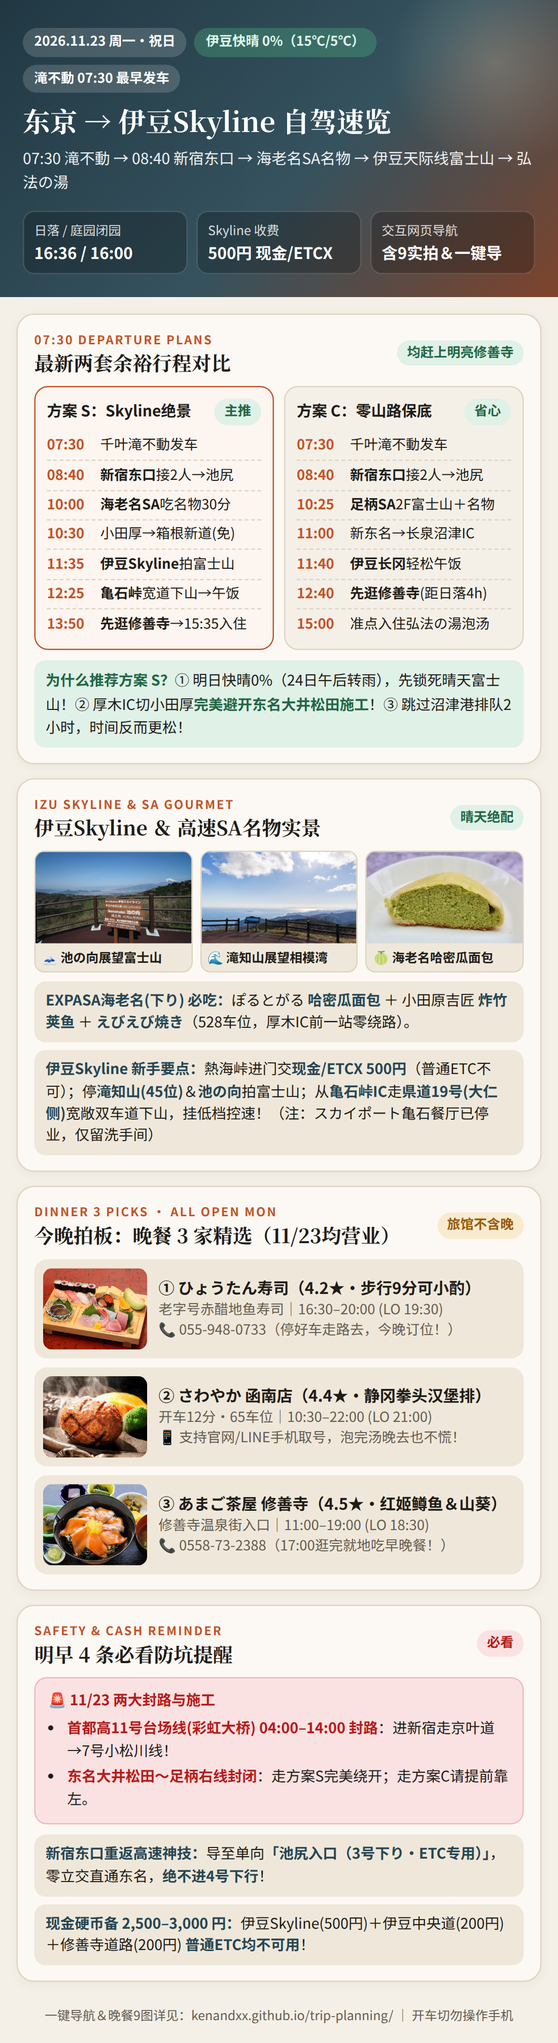
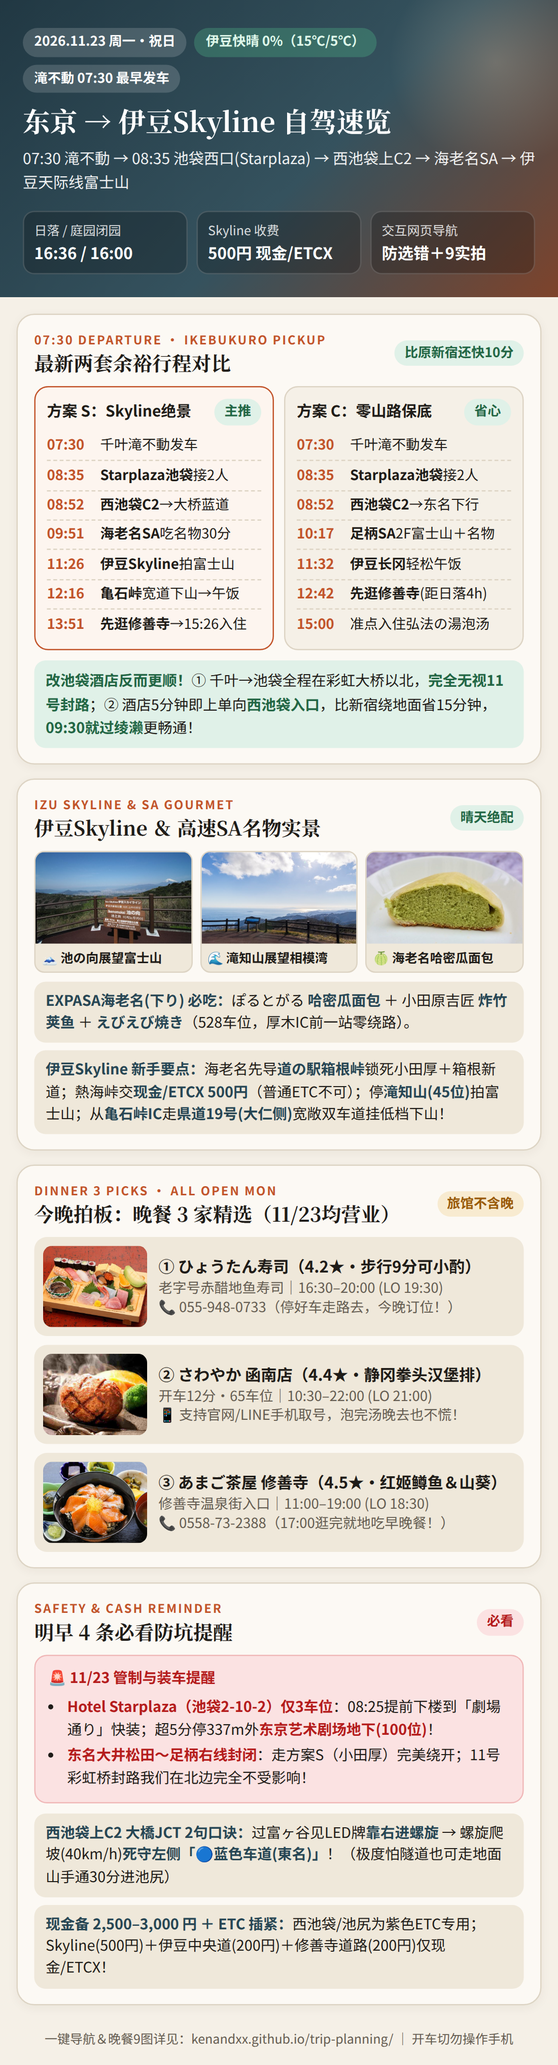
Replan Tokyo pickup for Hotel Starplaza Ikebukuro (08:35) and Nishi-Ikebukuro C2 entry

Changed region(s): [[0.0309, 0.0311, 0.9582, 0.9943], [0.9273, 0.0621, 0.9582, 0.0932]]

diff --git a/index.html b/index.html
@@ -6,12 +6,12 @@
 <meta name="robots" content="noindex, nofollow">
 <meta name="theme-color" content="#f5f0e7" media="(prefers-color-scheme: light)">
 <meta name="theme-color" content="#161513" media="(prefers-color-scheme: dark)">
-<title>11/23 伊豆自驾一键导航＆绝景攻略｜07:30出发・伊豆Skyline・晚餐3选1</title>
-<meta name="description" content="2026年11月23日千叶滝不動07:30出发→新宿东口接人→海老名SA名物→伊豆Skyline看富士山→修善寺＆弘法の湯。含新手一键Google Maps导航、3家晚餐实拍＆真实口碑。">
+<title>11/23 伊豆自驾一键导航＆绝景攻略｜07:30出发・池袋接人・伊豆Skyline</title>
+<meta name="description" content="2026年11月23日千叶滝不動07:30出发→Hotel Starplaza Ikebukuro(池袋西口)接人→西池袋上C2→海老名SA名物→伊豆Skyline看富士山→修善寺＆弘法の湯。含新手防选错一键Google Maps导航、3家晚餐9实拍＆真实口碑。">
 <meta property="og:type" content="website">
 <meta property="og:url" content="https://kenandxx.github.io/trip-planning/">
-<meta property="og:title" content="11/23 伊豆自驾一键导航｜伊豆Skyline富士山＆晚餐3选1">
-<meta property="og:description" content="07:30出发最新方案！含新手一键Google Maps语音导航、海老名/足柄SA名物、伊豆Skyline富士山攻略与3家高分晚餐实拍图＆口碑。">
+<meta property="og:title" content="11/23 伊豆自驾一键导航｜池袋西口接人・伊豆Skyline富士山＆晚餐3选1">
+<meta property="og:description" content="已锁定 Hotel Starplaza Ikebukuro（池袋西口）08:35 接人！含新手防选错一键导航、西池袋/零隧道双入口、海老名SA名物、伊豆Skyline富士山＆3家晚餐9实拍。">
 <meta property="og:image" content="https://kenandxx.github.io/trip-planning/og-cover.png">
 <style>
 :root{
@@ -253,7 +253,7 @@ footer{text-align:center;font-size:12px;color:var(--soft);padding:16px 0 36px;bo
       <span>滝不動 07:30 最早发车</span>
     </div>
     <h1>东京 → 伊豆Skyline → 伊豆长冈 自驾总览</h1>
-    <p class="sub">千叶滝不動 07:30 发车 → 新宿东口 08:40 接2位朋友 → 海老名SA名物 → 伊豆スカイライン富士山绝景 → 修善寺＆弘法の湯</p>
+    <p class="sub">千叶滝不動 07:30 发车 → 08:35 池袋西口（Hotel Starplaza）接2位朋友 → 西池袋上C2 → 海老名SA名物 → 伊豆スカイライン富士山 → 修善寺＆弘法の湯</p>
     <div class="hero-stats">
       <div class="hstat"><div class="l">天气 / 气温</div><div class="v">晴 15°/5°</div></div>
       <div class="hstat"><div class="l">日落 / 庭园闭园</div><div class="v">16:36 天黑</div></div>
@@ -292,10 +292,10 @@ footer{text-align:center;font-size:12px;color:var(--soft);padding:16px 0 36px;bo
       </ul>
     </div>
 
-    <!-- Custom Hotel Input -->
+    <!-- Confirmed Hotel Bar (Optional Override) -->
     <div class="hotel-bar">
-      <label for="hotel-input">🏨 朋友酒店名（选填）：</label>
-      <input id="hotel-input" type="text" placeholder="留空默认导至「新宿駅東口駐車場」(新宿3-38-1)">
+      <label for="hotel-input">🏨 已锁定接人酒店：</label>
+      <input id="hotel-input" type="text" placeholder="默认：Hotel Starplaza Ikebukuro（池袋2-10-2，改点可输）">
     </div>
 
     <!-- Route Toggle for Navigation Steps -->
@@ -310,33 +310,34 @@ footer{text-align:center;font-size:12px;color:var(--soft);padding:16px 0 36px;bo
       </button>
     </div>
 
-    <!-- LEG 1 (SHARED) -->
+    <!-- LEG 1 (SHARED: TAKIFUDO -> HOTEL STARPLAZA IKEBUKURO) -->
     <div class="nav-card">
       <div class="nav-top">
         <span class="nav-step">第 1 段</span>
-        <div class="nav-title" id="leg1-title">07:30 滝不動 → 新宿站东口（新宿駅東口駐車場）</div>
-        <span class="tag ok">约 70 分</span>
+        <div class="nav-title" id="leg1-title">07:30 滝不動 → Hotel Starplaza Ikebukuro（池袋西口）</div>
+        <span class="tag ok">约 65 分</span>
       </div>
-      <div class="nav-meta">默认定位新宿东口正牌停车场（新宿3-38-1，30分400日元，限高2.1m），上方填朋友酒店名即自动替换。</div>
-      <div class="route-check"><b>✅ 1秒选线核对：</b>认准蓝线含 <b>「京葉道路 / 7号小松川線」</b> ｜ <span class="no">❌ 绝不选含「湾岸線 / 11号台場線」的线</span>（11/23 04:00–14:00 彩虹大桥官方封路，当天实时路况大概率已自动标红绕开）。</div>
+      <div class="nav-meta"><b>東京都豊島区池袋2-10-2</b>（池袋西口C6出口步行1分）。酒店仅3个预约车位，提前10分叫朋友下楼到旁侧宽路「劇場通り」3分钟快装；若装车/等人超5分，直接点右侧停337m外<b>「東京芸術劇場駐車場」</b>（100台平面・07:00起・310円/30分・限高2.1m）。</div>
+      <div class="route-check"><b>✅ 1秒选线核对：</b>认准蓝线走 <b>「外環道 → C2中央環状線（西池袋出口）」</b>（避开C1最省心）或 <b>「京葉道路 → 7号小松川線 → 5号池袋線」</b>（均在彩虹大桥以北，完全不受11号台场线封路影响！）｜ <span class="no">❌ 绝不选含「湾岸線 / 11号台場線」的线</span>。</div>
       <div class="nav-actions">
-        <a id="leg1-go" class="gbtn" target="_blank" rel="noopener" href="https://www.google.com/maps/dir/?api=1&destination=35.691958,139.701291&travelmode=driving&dir_action=navigate">🧭 一键开启 Google 导航</a>
-        <a id="leg1-pre" class="pview" target="_blank" rel="noopener" href="https://www.google.com/maps/dir/?api=1&origin=%E6%BB%9D%E4%B8%8D%E5%8B%95%E9%A7%85&destination=35.691958,139.701291&travelmode=driving">👀 预览</a>
+        <a id="leg1-go" class="gbtn" target="_blank" rel="noopener" href="https://www.google.com/maps/dir/?api=1&destination=%E3%83%9B%E3%83%86%E3%83%AB%E3%82%B9%E3%82%BF%E3%83%BC%E3%83%97%E3%83%A9%E3%82%B6%E6%B1%A0%E8%A2%8B+%E6%9D%B1%E4%BA%AC%E9%83%BD%E8%B1%8A%E5%B3%B6%E5%8C%BA%E6%B1%A0%E8%A2%8B2-10-2&travelmode=driving&dir_action=navigate">🧭 一键导至 Hotel Starplaza 池袋</a>
+        <a id="leg1-pre" class="pview" target="_blank" rel="noopener" href="https://www.google.com/maps/dir/?api=1&destination=%E6%9D%B1%E4%BA%AC%E8%8A%B8%E8%A1%93%E5%8A%87%E5%A0%B4%E9%A7%90%E8%BB%8A%E5%A0%B4+%E6%9D%B1%E4%BA%AC%E9%83%BD%E8%B1%8A%E5%B3%B6%E5%8C%BA%E8%A5%BF%E6%B1%A0%E8%A2%8B1-8-1&travelmode=driving&dir_action=navigate">🅿 艺术剧场停车</a>
       </div>
     </div>
 
-    <!-- LEG 2A (SHARED NOVICE SECRET WEAPON) -->
+    <!-- LEG 2A (SHARED: HOTEL STARPLAZA IKEBUKURO -> NISHI-IKEBUKURO C2 OR ZERO-TUNNEL IKEJIRI) -->
     <div class="nav-card highlight">
       <div class="nav-top">
-        <span class="nav-step blue">第 2A 段・新手神技</span>
-        <div class="nav-title">08:40 东口接2人 → 池尻入口（首都高3号下り・ETC专用）</div>
-        <span class="tag ok">约 18–22 分</span>
+        <span class="nav-step blue">第 2A 段・池袋上高速神技</span>
+        <div class="nav-title">08:45 酒店接2人 → 西池袋入口（首都高C2内回り・ETC专用）</div>
+        <span class="tag ok">约 6–8 分 / 1.6km</span>
       </div>
-      <div class="nav-meta"><b>单向入口只通东名高速・用贺方向！</b>不钻山手隧道、不绕大桥JCT地下四层螺旋、物理上不可能开错方向！</div>
-      <div class="route-check"><b>✅ 1秒选线核对：</b><b>闭眼选最快那条蓝线即可！</b>几条都是市区普通道，终点是单向高速入口，绝不误入4号新宿线。</div>
+      <div class="nav-meta"><b>单向入口只通新宿・大桥JCT・东名方向！</b>距酒店仅约 5–7 分钟（沿要町通り→山手通り），比地面绕去池尻快 20 分钟！2026/11/23 已核实无施工封闭（紫色ETC专用入口）。</div>
+      <div class="route-check"><b>✅ 1秒选线核对 &amp; 大橋JCT 2句口诀：</b>进西池袋上山手隧道（8.4km）后一路直开（忽略西新宿/富ヶ谷）；① 过<b>富ヶ谷出口</b>看到炫亮 LED 牌<b>「大橋JCT・3号渋谷線・東名」</b>，<b>提前靠右分叉进螺旋匝道</b>（别直走去品川）；② 螺旋慢慢爬坡(40km/h)时<b>死守左侧「🔵 蓝色车道（東名・用賀）」</b>（绝不走右侧红道去都心），出螺旋即直通东名！</div>
+      <div class="nav-tip"><b>🛡 极度怕钻8.4km山手隧道/螺旋？</b>点右侧保底按钮直接走地面<b>山手通り</b>一路向南直达单向<b>「池尻入口（3号下り・ETC专用）」</b>（约30分，零隧道零立交，安全兜底！）</div>
       <div class="nav-actions">
-        <a class="gbtn" target="_blank" rel="noopener" href="https://www.google.com/maps/dir/?api=1&destination=%E6%B1%A0%E5%B0%BB%E5%85%A5%E5%8F%A3+%E9%A6%96%E9%83%BD%E9%AB%98%E9%80%9F3%E5%8F%B7%E6%B8%8B%E8%B0%B7%E7%B7%9A&travelmode=driving&dir_action=navigate">🧭 一键导至 池尻入口</a>
-        <a class="pview" target="_blank" rel="noopener" href="https://www.google.com/maps/dir/?api=1&origin=%E6%96%B0%E5%AE%BF%E9%A7%85%E6%9D%B1%E5%8F%A3&destination=%E6%B1%A0%E5%B0%BB%E5%85%A5%E5%8F%A3+%E9%A6%96%E9%83%BD%E9%AB%98%E9%80%9F3%E5%8F%B7%E6%B8%8B%E8%B0%B7%E7%B7%9A&travelmode=driving">👀 预览</a>
+        <a class="gbtn" target="_blank" rel="noopener" href="https://www.google.com/maps/dir/?api=1&destination=%E8%A5%BF%E6%B1%A0%E8%A2%8B%E5%85%A5%E5%8F%A3+%E9%A6%96%E9%83%BD%E9%AB%98%E9%80%9F%E4%B8%AD%E5%A4%AE%E7%92%B0%E7%8A%B6%E7%B7%9A&travelmode=driving&dir_action=navigate">🧭 主推：一键导至 西池袋入口</a>
+        <a class="pview" target="_blank" rel="noopener" href="https://www.google.com/maps/dir/?api=1&destination=%E6%B1%A0%E5%B0%BB%E5%85%A5%E5%8F%A3+%E9%A6%96%E9%83%BD%E9%AB%98%E9%80%9F3%E5%8F%B7%E6%B8%8B%E8%B0%B7%E7%B7%9A&travelmode=driving&dir_action=navigate">🛡 零隧道:池尻</a>
       </div>
     </div>
 
@@ -345,15 +346,15 @@ footer{text-align:center;font-size:12px;color:var(--soft);padding:16px 0 36px;bo
       <div class="nav-card scenic">
         <div class="nav-top">
           <span class="nav-step orange">第 2B 段・SA名物</span>
-          <div class="nav-title">东名高速（下行）→ EXPASA海老名 SA（下り・吃名物休整）</div>
-          <span class="tag warn">约 50–55 分</span>
+          <div class="nav-title">C2山手隧道 → 大橋JCT(蓝道) → 东名下行 → EXPASA海老名 SA（下り）</div>
+          <span class="tag warn">约 55–60 分</span>
         </div>
         <div class="nav-meta">神奈川県海老名市大谷南5-2-1（528小车位超宽敞，位于厚木IC前一站，零绕路！）。</div>
-        <div class="route-check"><b>✅ 1秒选线核对：</b>认准全程 <b>「首都高3号 → 東名高速」</b> 直达 ｜ <span class="no">❌ 就算绫濑微堵(+13分)也别下高速绕「国道246」</span>，老实走高速最省心！</div>
+        <div class="route-check"><b>✅ 1秒选线核对：</b>认准全程 <b>「C2中央環状線 → 大橋JCT → 3号渋谷線 → 東名高速」</b> 直达 ｜ <span class="no">❌ 就算绫濑微堵(+11分)也别下高速绕「国道246」</span>，老实走高速最省心！</div>
         <div class="nav-tip"><b>进站必吃：</b>① <b>ぽるとがる 哈密瓜面包</b> ② <b>小田原吉匠 炸竹荚鱼</b> ③ <b>えびえび焼き</b>！刚好休整 30 分钟。</div>
         <div class="nav-actions">
           <a class="gbtn" target="_blank" rel="noopener" href="https://www.google.com/maps/dir/?api=1&destination=EXPASA%E6%B5%B7%E8%80%81%E5%90%8D+%E4%B8%8B%E3%82%8A+%E7%A5%9E%E5%A5%88%E5%B7%9D%E7%9C%8C%E6%B5%B7%E8%80%81%E5%90%8D%E5%B8%82%E5%A4%A7%E8%B0%B7%E5%8D%975-2-1&travelmode=driving&dir_action=navigate">🧭 一键导至 海老名SA（下り）</a>
-          <a class="pview" target="_blank" rel="noopener" href="https://www.google.com/maps/dir/?api=1&origin=%E6%B1%A0%E5%B0%BB%E5%85%A5%E5%8F%A3&destination=EXPASA%E6%B5%B7%E8%80%81%E5%90%8D+%E4%B8%8B%E3%82%8A&travelmode=driving">👀 预览</a>
+          <a class="pview" target="_blank" rel="noopener" href="https://www.google.com/maps/dir/?api=1&origin=%E8%A5%BF%E6%B1%A0%E8%A2%8B%E5%85%A5%E5%8F%A3+%E9%A6%96%E9%83%BD%E9%AB%98%E9%80%9F%E4%B8%AD%E5%A4%AE%E7%92%B0%E7%8A%B6%E7%B7%9A&destination=EXPASA%E6%B5%B7%E8%80%81%E5%90%8D+%E4%B8%8B%E3%82%8A&travelmode=driving">👀 预览</a>
         </div>
       </div>
 
@@ -405,14 +406,14 @@ footer{text-align:center;font-size:12px;color:var(--soft);padding:16px 0 36px;bo
       <div class="nav-card">
         <div class="nav-top">
           <span class="nav-step orange">第 2B 段・SA名物</span>
-          <div class="nav-title">东名高速（下行）→ EXPASA足柄 SA（下り・2F看富士山）</div>
-          <span class="tag warn">约 75–85 分</span>
+          <div class="nav-title">C2山手隧道 → 大橋JCT(蓝道) → 东名下行 → EXPASA足柄 SA（下り）</div>
+          <span class="tag warn">约 80–90 分</span>
         </div>
         <div class="nav-meta">静岡県駿東郡小山町桑木603-18（511小车位，西馆2楼富士山展望露台＋足柄牛名物）。</div>
-        <div class="route-check"><b>✅ 1秒选线核对：</b>认准全程 <b>「首都高3号 → 東名高速」</b> 直达 ｜ ⚠ 大井松田IC〜足柄SIC 右线昼夜施工封闭，请提前靠左稳妥驶入足柄SA。</div>
+        <div class="route-check"><b>✅ 1秒选线核对：</b>认准全程 <b>「C2中央環状線 → 大橋JCT(蓝道) → 3号渋谷線 → 東名高速」</b> 直达 ｜ ⚠ 大井松田IC〜足柄SIC 右线昼夜施工封闭，请提前靠左稳妥驶入足柄SA。</div>
         <div class="nav-actions">
           <a class="gbtn" target="_blank" rel="noopener" href="https://www.google.com/maps/dir/?api=1&destination=EXPASA%E8%B6%B3%E6%9F%84+%E4%B8%8B%E3%82%8A+%E9%9D%99%E5%B2%A1%E7%9C%8C%E9%A7%BF%E6%9D%B1%E9%83%A1%E5%B0%8F%E5%B1%B1%E7%94%BA%E6%A1%91%E6%9C%A8603-18&travelmode=driving&dir_action=navigate">🧭 一键导至 足柄SA（下り）</a>
-          <a class="pview" target="_blank" rel="noopener" href="https://www.google.com/maps/dir/?api=1&origin=%E6%B1%A0%E5%B0%BB%E5%85%A5%E5%8F%A3&destination=EXPASA%E8%B6%B3%E6%9F%84+%E4%B8%8B%E3%82%8A&travelmode=driving">👀 预览</a>
+          <a class="pview" target="_blank" rel="noopener" href="https://www.google.com/maps/dir/?api=1&origin=%E8%A5%BF%E6%B1%A0%E8%A2%8B%E5%85%A5%E5%8F%A3+%E9%A6%96%E9%83%BD%E9%AB%98%E9%80%9F%E4%B8%AD%E5%A4%AE%E7%92%B0%E7%8A%B6%E7%B7%9A&destination=EXPASA%E8%B6%B3%E6%9F%84+%E4%B8%8B%E3%82%8A&travelmode=driving">👀 预览</a>
         </div>
       </div>
 
@@ -539,7 +540,7 @@ footer{text-align:center;font-size:12px;color:var(--soft);padding:16px 0 36px;bo
   <!-- 1. IZU SKYLINE ANALYSIS -->
   <section id="skyline">
     <div class="sec-head">
-      <div><div class="sec-k">SCENIC ROUTE EVALUATION</div><h2>新宿 → 伊豆，能走「伊豆スカイライン」看富士山吗？</h2></div>
+      <div><div class="sec-k">SCENIC ROUTE EVALUATION</div><h2>池袋 → 伊豆，能走「伊豆スカイライン」看富士山吗？</h2></div>
       <span class="tag ok">结论：完全能走・超推荐 ◎</span>
     </div>
 
@@ -819,15 +820,15 @@ footer{text-align:center;font-size:12px;color:var(--soft);padding:16px 0 36px;bo
     <div class="presets">
       <button class="pbtn on" data-preset="planS" type="button">
         <div class="top"><span class="name">方案 S：伊豆Skyline绝景</span><span class="tag ok">最推荐 ◎</span></div>
-        <div class="desc">07:30 滝不動 → 08:40 新宿东口 → 海老名SA名物 → 伊豆天际线富士山 → 13:50 修善寺</div>
+        <div class="desc">07:30 滝不動 → 08:35 池袋西口接人 → 海老名SA名物 → 伊豆天际线富士山 → 13:51 修善寺</div>
       </button>
       <button class="pbtn" data-preset="planC" type="button">
         <div class="top"><span class="name">方案 C：新东名零山路</span><span class="tag ok">最省心 ◎</span></div>
-        <div class="desc">07:30 滝不動 → 08:40 新宿东口 → 足柄SA名物＆富士山 → 新东名直奔伊豆 → 12:40 修善寺</div>
+        <div class="desc">07:30 滝不動 → 08:35 池袋西口接人 → 足柄SA名物＆富士山 → 新东名直奔伊豆 → 12:42 修善寺</div>
       </button>
       <button class="pbtn" data-preset="planA" type="button">
         <div class="top"><span class="name">方案 A：硬塞沼津港对照</span><span class="tag err">偏紧 ✕</span></div>
-        <div class="desc">07:30 滝不動 → 足柄SA → 11:20 沼津港撞峰值排2h → 15:00入住后再去修善寺天已黑</div>
+        <div class="desc">07:30 滝不動 → 足柄SA → 11:12 沼津港撞祝日祭典峰值排2h → 15:00入住后再去修善寺天已黑</div>
       </button>
     </div>
 
@@ -836,7 +837,7 @@ footer{text-align:center;font-size:12px;color:var(--soft);padding:16px 0 36px;bo
         <div>
           <div class="ctrl-row"><span>千叶滝不動发车（最早07:30）</span><b id="dep-out" class="mono">07:30</b></div>
           <input id="dep-slider" type="range" min="450" max="540" step="15" value="450">
-          <div class="ctrl-row" style="font-size:11px;color:var(--soft)"><span>07:30</span><span>新宿东口约 <b id="sjk-hint">08:40</b> 集合</span><span>09:00</span></div>
+          <div class="ctrl-row" style="font-size:11px;color:var(--soft)"><span>07:30</span><span>池袋酒店约 <b id="sjk-hint">08:35</b> 接人</span><span>09:00</span></div>
         </div>
         <div>
           <select id="route-mode">
@@ -856,7 +857,7 @@ footer{text-align:center;font-size:12px;color:var(--soft);padding:16px 0 36px;bo
       </div>
 
       <div class="kpis">
-        <div class="kpi"><div class="kl">新宿东口接人</div><div id="k-sjk" class="kv">--:--</div><div class="ks">走京叶道→7号线</div></div>
+        <div class="kpi"><div class="kl">池袋酒店接人</div><div id="k-sjk" class="kv">--:--</div><div class="ks">Starplaza・西池袋上C2</div></div>
         <div class="kpi"><div class="kl">东名绫濑瓶颈</div><div id="k-tomei" class="kv">--</div><div id="k-tomei-s" class="ks">--</div></div>
         <div class="kpi"><div class="kl">修善寺日落前</div><div id="k-light" class="kv">--</div><div id="k-garden" class="ks">--</div></div>
         <div class="kpi"><div class="kl">累计驾驶 / 路线亮点</div><div id="k-drv" class="kv">--</div><div id="k-num" class="ks">--</div></div>
@@ -885,9 +886,9 @@ footer{text-align:center;font-size:12px;color:var(--soft);padding:16px 0 36px;bo
     </div>
 
     <div class="alert err" style="margin-bottom:10px">
-      <b class="t">🚨 11/23 两大官方刚性管制</b>
+      <b class="t">🚨 11/23 两大官方刚性管制（改去池袋反而更顺！）</b>
       <ul>
-        <li><b>首都高 11号台场线（彩虹大桥）04:00–14:00 全线封路</b>（自行车赛）：千叶进新宿<b>切勿走湾岸线＋彩虹大桥</b>，走<b>京叶道路 → 首都高7号小松川线</b>！</li>
+        <li><b>首都高 11号台场线（彩虹大桥）04:00–14:00 全线封路</b>（自行车赛）：千叶进池袋走<b>外环道→C2中央环状线（西池袋出口）</b>或<b>京叶道→7号小松川线→5号池袋线</b>，全程在彩虹大桥以北，<b>完全不受封路影响</b>！</li>
         <li><b>东名高速下行「大井松田IC 〜 足柄SIC」右线昼夜连续封闭施工</b>（至12/18）：<b>走方案S（厚木IC切小田原厚木道路→伊豆Skyline）直接完美避开！</b>若走方案C直行东名，请提前靠左勿抢行。</li>
       </ul>
     </div>
@@ -900,7 +901,7 @@ footer{text-align:center;font-size:12px;color:var(--soft);padding:16px 0 36px;bo
       <div class="cchart" id="c-chart"></div>
       <div class="caxis" id="c-axis"></div>
       <p style="margin:8px 0 0;font-size:12.5px;color:var(--soft)">
-        ✅ <b>核心利好</b>：首都高官方评定 11/23 全天<b>「拥堵较少」</b>；07:30 出发约 <b>09:40 过绫濑</b>，仅遇早期轻堵（约 +13分钟），比周六日（20km）轻得多！且 <b>小田原厚木道路下行</b> 11/23 无拥堵预测；最恐怖的 <b>30 km 返程大堵车</b> 在对向上行，与我们完全反向！
+        ✅ <b>改池袋后的双重大利好</b>：首都高官方评定 11/23 全天<b>「拥堵较少」</b>；07:30 出发 08:35 抵池袋，从仅 5 分钟外的<b>西池袋入口</b>直入 C2→东名，约 <b>09:30 就过绫濑</b>（仅微堵约 +11分钟，比原新宿方案更早更顺！）；且 <b>小田原厚木道路下行</b> 无拥堵预测，30km 返程大堵车全在对向上行！
       </p>
     </div>
 
@@ -940,44 +941,43 @@ const CONGESTION = [
 ];
 
 const RISKS = [
-  {lvl:'err',tag:'高风险',cat:'新手重返高速',t:'误入4号新宿线下行（西新宿JCT不能转C2）或被C1/山手隧道绕晕',p:'直接点第2A段「池尻入口（首都高3号下り・单向入口）」，只去东名、零立交切换，物理防走错！'},
-  {lvl:'err',tag:'高风险',cat:'首都高封路',t:'11号台场线（彩虹大桥）04:00–14:00 全线封路',p:'07:30出发前扫一眼第1段蓝线，确认走京叶道→7号小松川线，绝不走湾岸线。'},
+  {lvl:'err',tag:'高风险',cat:'大桥JCT＆山手隧道',t:'从西池袋进8.4km山手隧道后，在大橋JCT误直走去品川或误走红道去都心',p:'牢记2句口诀：①过富ヶ谷出口见「大橋JCT・3号渋谷線・東名」LED牌靠右进螺旋；②螺旋爬坡(40km/h)死守左侧「🔵蓝色车道（東名・用賀）」！若真怕钻隧道，点第2A段右侧「零隧道:池尻入口」沿山手通直下即可。'},
+  {lvl:'err',tag:'高风险',cat:'首都高ETC＆封路',t:'西池袋/池尻均为紫色ETC专用入口（现金不可进）＋ 11号彩虹大桥 04–14时封路',p:'发车前确认ETC卡插紧；滝不動→池袋全程在彩虹大桥以北（外环道→C2或京叶道→7号线→5号线），绝不走湾岸线！'},
   {lvl:'err',tag:'高风险',cat:'现金收费站',t:'伊豆Skyline(500円) / 伊豆中央道(200円) / 修善寺道路(200円) 普通ETC不可用！',p:'中控台备足 2,500–3,000 日元（500円/100円硬币＋千円纸币），副驾专职递钱走「一般/现金」通道（若提前注册过ETCX可用）。'},
   {lvl:'warn',tag:'中风险',cat:'山路下坡＆让车',t:'伊豆Skyline 龟石峠下山（県道19号大仁侧）长下坡＋本地快车',p:'大仁侧为宽敞双车道，下坡挂低档/B档用发动机制动控速 40–50km/h，勿长踩脚刹；遇后方快车在避让带靠边让行。大雾随时在厚木IC改走路线B（零山路）！'},
-  {lvl:'warn',tag:'中风险',cat:'东口装车＆晚餐',t:'4人雪杖/行李装车超5分违停 ＋ 祝日晚上无预约没位',p:'装车超5分钟直接进「新宿駅東口駐車場」（400円/30分）；晚餐3家任选其一：ひょうたん寿司/あまご茶屋请今晚电话订位，さわやか函南店请提前用官网/LINE手机取号！'},
+  {lvl:'warn',tag:'中风险',cat:'池袋装车＆晚餐',t:'Hotel Starplaza 仅3个预约车位、装车超5分易违停 ＋ 祝日晚上无预约没位',p:'到店前10分钟叫朋友下楼到「劇場通り」大路边3分钟快装；若等超5分钟直接拐进337m外「東京芸術劇場駐車場」（100台平面・310円/30分）；晚餐ひょうたん寿司/あまご茶屋今晚电话订位，さわやか明天手机取号！'},
   {lvl:'warn',tag:'中风险',cat:'修善寺窄巷＆日落',t:'直接导修禅寺易钻窄巷 ＋ 16:36天黑・11/24午后转雨',p:'第4段已锁定平地宽敞＋管理员引导的「月の庭駐車場」；11/23快晴走Skyline先锁死富士山绝景，再赶16:00前逛完修禅寺庭园！'}
 ];
 
 const TODOS = [
-  {id:'t1',who:'全员',tx:'拍板明早路线：08:40 新宿东口集合 → 选【方案S 海老名SA＋伊豆Skyline富士山】还是【方案C 足柄SA＋新东名零山路】'},
+  {id:'t1',who:'全员',tx:'确认集合点＆路线：08:35 Hotel Starplaza Ikebukuro（池袋2-10-2・C6口）→ 选【方案S 海老名SA＋伊豆Skyline富士山】还是【方案C 足柄SA＋零山路】'},
   {id:'t2',who:'全员',tx:'拍板晚餐 3 选 1：① ひょうたん寿司(055-948-0733今晚订位) / ② さわやか函南店(明天手机取号) / ③ あまご茶屋(0558-73-2388)'},
-  {id:'t3',who:'友人',tx:'把新宿东口酒店确切名（填顶部输入框自动生成导航）＋ 雪杖长度＆箱子数发群里'},
+  {id:'t3',who:'友人',tx:'把2位朋友的雪杖长度＆箱子尺寸发群里；明早 08:25 提前退房下楼到酒店外「劇場通り」大路边等车！'},
   {id:'t4',who:'司机',tx:'备好 2,500–3,000 日元现金（含500円/100円硬币）：用于伊豆Skyline 500円＋伊豆中央道200円＋修善寺道路200円（及可选ターンパイク900円）'},
-  {id:'t5',who:'司机',tx:'确认 ETC 卡插紧（池尻等首都高入口为ETC专用）、装手机支架、加满油、清空后备箱'},
-  {id:'t6',who:'明早',tx:'07:30 滝不動发车前扫一眼第1段蓝线：走京叶道→7号小松川线（避开11号台场线封路）'},
-  {id:'t7',who:'配合',tx:'到新宿东口前10分钟叫朋友下楼，3分钟快装；上路后全部由副驾点下一段导航＆在收费站递现金'},
+  {id:'t5',who:'司机',tx:'确认 ETC 卡插紧（西池袋/池尻入口均为紫色ETC专用）、装手机支架、加满油、清空后备箱；副驾建议免费装「Yahoo!カーナビ」辅助看首都高3D分叉'},
+  {id:'t6',who:'明早',tx:'07:30 滝不動发车前扫一眼第1段蓝线：走外环→C2或京叶道→7号线→5号线（绝不走湾岸线/彩虹大桥）'},
+  {id:'t7',who:'配合',tx:'进西池袋上C2山手隧道后牢记大橋JCT口诀：过富ヶ谷靠右进螺旋 → 死守左侧「🔵蓝色车道」去东名！（极度怕隧道可切池尻入口）'},
   {id:'t8',who:'休整',tx:'在 EXPASA海老名（下り）买哈密瓜面包＆炸竹荚鱼垫肚子（记住スカイポート亀石餐厅已结业，仅留洗手间）'}
 ];
 
 const fmt = m => `${String(Math.floor(m/60)).padStart(2,'0')}:${String(Math.round(m%60)).padStart(2,'0')}`;
 
-// Hotel input live updater
+// Hotel input live updater (Defaults to confirmed Hotel Starplaza Ikebukuro)
 const hotelInput = document.getElementById('hotel-input');
 function updateHotelNav(){
   const val = hotelInput.value.trim();
   const enc = encodeURIComponent;
   const go = document.getElementById('leg1-go');
-  const pre = document.getElementById('leg1-pre');
   const title = document.getElementById('leg1-title');
   if(val){
-    const dest = enc(val + ' 新宿');
+    const dest = enc(val + ' 東京');
     go.href = `https://www.google.com/maps/dir/?api=1&destination=${dest}&travelmode=driving&dir_action=navigate`;
-    pre.href = `https://www.google.com/maps/dir/?api=1&origin=${enc('滝不動駅')}&destination=${dest}&travelmode=driving`;
-    title.textContent = `07:30 滝不動 → ${val}（新宿东口）`;
+    go.textContent = `🧭 一键导至 ${val}`;
+    title.textContent = `07:30 滝不動 → ${val}`;
   } else {
-    go.href = 'https://www.google.com/maps/dir/?api=1&destination=35.691958,139.701291&travelmode=driving&dir_action=navigate';
-    pre.href = 'https://www.google.com/maps/dir/?api=1&origin=%E6%BB%9D%E4%B8%8D%E5%8B%95%E9%A7%85&destination=35.691958,139.701291&travelmode=driving';
-    title.textContent = '07:30 滝不動 → 新宿站东口（新宿駅東口駐車場）';
+    go.href = 'https://www.google.com/maps/dir/?api=1&destination=%E3%83%9B%E3%83%86%E3%83%AB%E3%82%B9%E3%82%BF%E3%83%BC%E3%83%97%E3%83%A9%E3%82%B6%E6%B1%A0%E8%A2%8B+%E6%9D%B1%E4%BA%AC%E9%83%BD%E8%B1%8A%E5%B3%B6%E5%8C%BA%E6%B1%A0%E8%A2%8B2-10-2&travelmode=driving&dir_action=navigate';
+    go.textContent = '🧭 一键导至 Hotel Starplaza 池袋';
+    title.textContent = '07:30 滝不動 → Hotel Starplaza Ikebukuro（池袋西口）';
   }
 }
 hotelInput.addEventListener('input', updateHotelNav);
@@ -1009,30 +1009,30 @@ function runSim(){
   const list = [];
   let t = dep, drv = 0, km = 0;
 
-  list.push({s:t,d:70,tp:'d',lb:'滝不動→新宿',ti:'第1段：滝不動駅 → 新宿站东口（约39km）',nt:'京叶道→首都高7号小松川线（完美避开11号彩虹大桥 04:00–14:00 封路）。'});
-  t+=70; drv+=70; km+=39;
+  list.push({s:t,d:65,tp:'d',lb:'滝不動→池袋',ti:'第1段：滝不動駅 → Hotel Starplaza Ikebukuro（池袋西口，约40km）',nt:'走外环道→C2（西池袋出口）或京叶道→7号线→5号线，全程在彩虹大桥以北，完全不受11号台场线封路影响！'});
+  t+=65; drv+=65; km+=40;
   const sjk = t;
   document.getElementById('sjk-hint').textContent = fmt(sjk);
 
-  list.push({s:t,d:25,tp:'r',lb:'东口接人→池尻',ti:'第2A段：新宿东口接2人＆装车 → 池尻入口（3号下り）',nt:'新手零立交神技：沿明治通り→246进单向「池尻入口（ETC专用）」直通东名。'});
-  t+=25; drv+=18; km+=6;
+  list.push({s:t,d:17,tp:'r',lb:'池袋接人→西池袋',ti:'第2A段：Hotel Starplaza 接2人＆装车 → 西池袋入口（C2内回り・ETC专用）',nt:'提前10分叫朋友到劇場通り快装（超5分停337m外东京艺术剧场）；单向西池袋入口距酒店仅6分钟！'});
+  t+=17; drv+=7; km+=2;
 
-  const ayaseEst = t+35;
+  const ayaseEst = t+38;
   const delay = ayaseDelay(ayaseEst, tmode);
   let highlightTxt = '', numBad = false;
 
   if(rmode === 'skyline'){
-    const toEbina = 42 + delay;
-    list.push({s:t,d:toEbina,tp:'d',lb:delay>=10?`东名(+${delay}分)`:'东名→海老名',ti:'第2B段：3号涩谷线 → 东名下行 → EXPASA海老名（下り，约41km）',nt:`约${fmt(ayaseEst)}过绫濑瓶颈（+${delay}分）。海老名SA在厚木IC前一站，零绕路！`});
-    t+=toEbina; drv+=toEbina; km+=41;
+    const toEbina = 48 + delay;
+    list.push({s:t,d:toEbina,tp:'d',lb:delay>=10?`C2→东名(+${delay}分)`:'C2→海老名',ti:'第2B段：西池袋C2山手隧道 → 大橋JCT(🔵蓝道) → 3号涩谷线 → EXPASA海老名（下り，约48km）',nt:`约${fmt(ayaseEst)}过绫濑瓶颈（+${delay}分）。比原新宿绕地面快15分钟！海老名SA在厚木IC前一站零绕路。`});
+    t+=toEbina; drv+=toEbina; km+=48;
 
     list.push({s:t,d:30,tp:'r',lb:'海老名SA名物',ti:'EXPASA海老名（下り）休整＋名物补给',nt:'必吃：ぽるとがる 哈密瓜面包 ＋ 小田原吉匠 炸竹荚鱼 ＋ えびえび焼き（528小车位）。'});
     t+=30;
 
-    list.push({s:t,d:65,tp:'d',lb:'小田厚→熱海峠',ti:'第3A段：厚木IC → 小田原厚木道路 → 箱根新道（免费上坡）→ 熱海峠IC（约53km）',nt:'完美绕开东名大井松田右线施工！11/23小田厚下行无拥堵预测；也可升级走ターンパイク大观山(900円)。'});
+    list.push({s:t,d:65,tp:'d',lb:'小田厚→熱海峠',ti:'第3A段：厚木IC → 小田原厚木道路 → 箱根新道（免费上坡）→ 道の駅箱根峠 → 熱海峠IC（约53km）',nt:'完美绕开东名大井松田右线施工！11/23小田厚下行无拥堵预测；也可升级走ターンパイク大观山(900円)。'});
     t+=65; drv+=65; km+=53;
 
-    list.push({s:t,d:50,tp:'s',lb:'伊豆Skyline富士山',ti:'第3B段：伊豆スカイライン（熱海峠→亀石峠 16.5km，含25分富士山拍照）',nt:'现金/ETCX 500日元！停「滝知山展望台（45车位）」＆「池の向展望台」拍晴天富士山＋相模/骏河双海！'});
+    list.push({s:t,d:50,tp:'s',lb:'伊豆Skyline富士山',ti:'第3B/3C段：伊豆スカイライン（熱海峠→滝知山→亀石峠 16.5km，含25分富士山拍照）',nt:'现金/ETCX 500日元！停「滝知山展望台（45车位）」＆「池の向展望台」拍晴天富士山＋相模/骏河双海！'});
     t+=50; drv+=25; km+=17;
 
     list.push({s:t,d:30,tp:'d',lb:'亀石峠下山',ti:'亀石峠IC 宽道下山 → 県道19号（大仁侧）→ 伊豆长冈/修善寺（约18km）',nt:'双向双车道好开！下长坡挂低档/B档发动机制动控速 40–50km/h。'});
@@ -1042,9 +1042,9 @@ function runSim(){
     t+=55;
     highlightTxt = '锁死晴天富士山◎';
   } else if(rmode === 'direct'){
-    const hw = 68 + delay;
-    list.push({s:t,d:hw,tp:'d',lb:delay>=10?`东名(+${delay}分)`:'东名下行',ti:'第2B段：3号涩谷线 → 东名下行 → EXPASA足柄（下り，约86km）',nt:`约${fmt(ayaseEst)}过绫濑（+${delay}分）。大井松田IC〜足柄右线封闭施工，提前靠左。`});
-    t+=hw; drv+=hw; km+=86;
+    const hw = 74 + delay;
+    list.push({s:t,d:hw,tp:'d',lb:delay>=10?`C2→东名(+${delay}分)`:'C2→东名下行',ti:'第2B段：西池袋C2山手隧道 → 大橋JCT(🔵蓝道) → 东名下行 → EXPASA足柄（下り，约93km）',nt:`约${fmt(ayaseEst)}过绫濑（+${delay}分）。大井松田IC〜足柄右线封闭施工，提前靠左。`});
+    t+=hw; drv+=hw; km+=93;
 
     list.push({s:t,d:35,tp:'r',lb:'足柄SA富士山',ti:'EXPASA足柄（下り）2F展望台看富士山＋吃名物',nt:'足柄牛汉堡排 / 御殿鸡蛋蛋包饭 / 西馆2楼富士山露台（511小车位）。'});
     t+=35;
@@ -1056,17 +1056,17 @@ function runSim(){
     t+=55;
     highlightTxt = '零山路最省心◎';
   } else {
-    const hw = 68 + delay;
-    list.push({s:t,d:hw,tp:'d',lb:delay>=10?`东名(+${delay}分)`:'东名下行',ti:'第2B段：东名下行 → EXPASA足柄（下り，约86km）',nt:`约${fmt(ayaseEst)}过绫濑（+${delay}分），大井松田右线封闭请靠左。`});
-    t+=hw; drv+=hw; km+=86;
+    const hw = 74 + delay;
+    list.push({s:t,d:hw,tp:'d',lb:delay>=10?`C2→东名(+${delay}分)`:'C2→东名下行',ti:'第2B段：西池袋C2 → 东名下行 → EXPASA足柄（下り，约93km）',nt:`约${fmt(ayaseEst)}过绫濑（+${delay}分），大井松田右线封闭请靠左。`});
+    t+=hw; drv+=hw; km+=93;
     list.push({s:t,d:20,tp:'r',lb:'足柄SA',ti:'EXPASA足柄（下り）短暂休整',nt:'若出发已过10:40建议直接跳过沼津港！'});
     t+=20;
     list.push({s:t,d:35,tp:'d',lb:'往沼津港',ti:'第3段：足柄SA → 沼津港（约34km）',nt:'11/23叠加沼津秋祭。'});
     t+=35; drv+=35; km+=34;
-    let stay = t >= 675 ? 115 : 85;
-    if(t >= 675){ numBad = true; highlightTxt = `${fmt(t)}到沼津(撞峰值2h)`; }
+    let stay = t >= 660 ? 115 : 85;
+    if(t >= 660){ numBad = true; highlightTxt = `${fmt(t)}到沼津(撞峰值2h)`; }
     else { highlightTxt = `${fmt(t)}到沼津(轻排队)`; }
-    list.push({s:t,d:stay,tp:'f',lb:'沼津港午饭',ti:'沼津港海鲜午饭（含停车＋等位）',nt:numBad?'❌ 07:30出发到沼津港已撞12点祝日峰值，强烈建议改走方案S！':'需抓紧时间。'});
+    list.push({s:t,d:stay,tp:'f',lb:'沼津港午饭',ti:'沼津港海鲜午饭（含停车＋等位）',nt:numBad?'❌ 07:30出发到沼津港已撞11点后祝日＋秋祭峰值，强烈建议改走方案S！':'需抓紧时间。'});
     t+=stay;
     list.push({s:t,d:30,tp:'d',lb:'往伊豆',ti:'沼津港 → 伊豆长冈区域（约13km）',nt:'伊豆中央道现金200日元。'});
     t+=30; drv+=30; km+=13;
@@ -1172,7 +1172,7 @@ function drawRisks(){
   });
 }
 
-const KEY='izu_wx_chk_v3';
+const KEY='izu_wx_chk_v4';
 function drawTodos(){
   let st={}; try{st=JSON.parse(localStorage.getItem(KEY)||'{}');}catch{}
   const w=document.getElementById('chk-wrap'); w.innerHTML='';
@@ -1216,7 +1216,7 @@ document.getElementById('lb-close').addEventListener('click',()=>lb.classList.re
 lb.addEventListener('click',e=>{if(e.target===lb) lb.classList.remove('show');});
 
 document.getElementById('copy-wx-btn').addEventListener('click',()=>{
-  const txt = `【11/23 周一・伊豆自驾最新攻略＆一键导航】\n明天伊豆全天大晴天（15℃/5℃，日落16:36），24日午后可能转雨，所以我们明天直接冲富士山绝景线！页面含一键Google Maps导航＋3家晚餐9张实拍👇\nhttps://kenandxx.github.io/trip-planning/\n\n🚗 最新时间安排（滝不動最早 07:30 出发）：\n・08:40 新宿站东口接2位朋友（车到前10分钟叫大家下楼快装）\n・10:00 EXPASA海老名(下り)吃名物休整30分（哈密瓜面包・炸竹荚鱼・えびえび焼き）\n・11:35 走【伊豆スカイライン】看富士山＋相模/骏河双海！（完美绕开东名大井松田施工，跳过沼津港排队2小时）\n・13:50 先趁天亮逛修善寺温泉街＆修禅寺庭园（16:00闭园）\n・15:35 入住弘法の湯长冈店泡温泉＆岩盘浴\n\n🍽 今晚请大家投票选 1 家晚餐（点网页看9张图＆评价）：\n① ひょうたん寿司（步行9分・老字号地鱼寿司・司机可小酌・LO 19:30）\n② さわやか 函南店（静冈限定碳烤拳头汉堡排・车程12分・LO 21:00 可手机取号）\n③ あまご茶屋 修善寺温泉店（4.5★红姬鳟鱼＆现磨山葵・17:00逛完直接吃・LO 18:30）\n\n麻烦报一下新宿东口酒店确切名字＋雪杖＆箱子尺寸，明天见！`;
+  const txt = `【11/23 周一・伊豆自驾最新攻略＆一键导航（已锁定池袋酒店！）】\n明天伊豆全天大晴天（15℃/5℃，日落16:36），24日午后可能转雨，所以我们明天直接冲富士山绝景线！页面含防选错一键Google Maps导航＋3家晚餐9张实拍👇\nhttps://kenandxx.github.io/trip-planning/\n\n🚗 最新时间安排（滝不動最早 07:30 出发）：\n・08:35 抵达 Hotel Starplaza Ikebukuro（池袋2-10-2・西口C6）接2位朋友！请 08:25 提前下楼到酒店旁「劇場通り」大路边快装（超5分拐去337m外东京艺术剧场地下停车）\n・08:52 从仅5分钟外的【西池袋入口】直上C2山手隧道→东名（比原新宿快15分钟！）\n・09:51 EXPASA海老名(下り)吃名物休整30分（哈密瓜面包・炸竹荚鱼・えびえび焼き）\n・11:26 走【伊豆スカイライン】看富士山＋相模/骏河双海！（完美避开东名大井松田施工，跳过沼津港排队2小时）\n・13:51 先趁天亮逛修善寺温泉街＆修禅寺庭园（16:00闭园）\n・15:26 入住弘法の湯长冈店泡温泉＆岩盘浴\n\n🍽 今晚请大家投票选 1 家晚餐（点网页看9张图＆评价）：\n① ひょうたん寿司（步行9分・老字号地鱼寿司・司机可小酌・LO 19:30）\n② さわやか 函南店（静冈限定碳烤拳头汉堡排・车程12分・LO 21:00 可手机取号）\n③ あまご茶屋 修善寺温泉店（4.5★红姬鳟鱼＆现磨山葵・17:00逛完直接吃・LO 18:30）\n\n麻烦报一下雪杖长度＆箱子尺寸，明早 08:25 池袋酒店楼下见！`;
   if(navigator.clipboard){navigator.clipboard.writeText(txt).catch(()=>{});}
   const t=document.getElementById('toast'); t.classList.add('show');
   setTimeout(()=>t.classList.remove('show'),2400);
